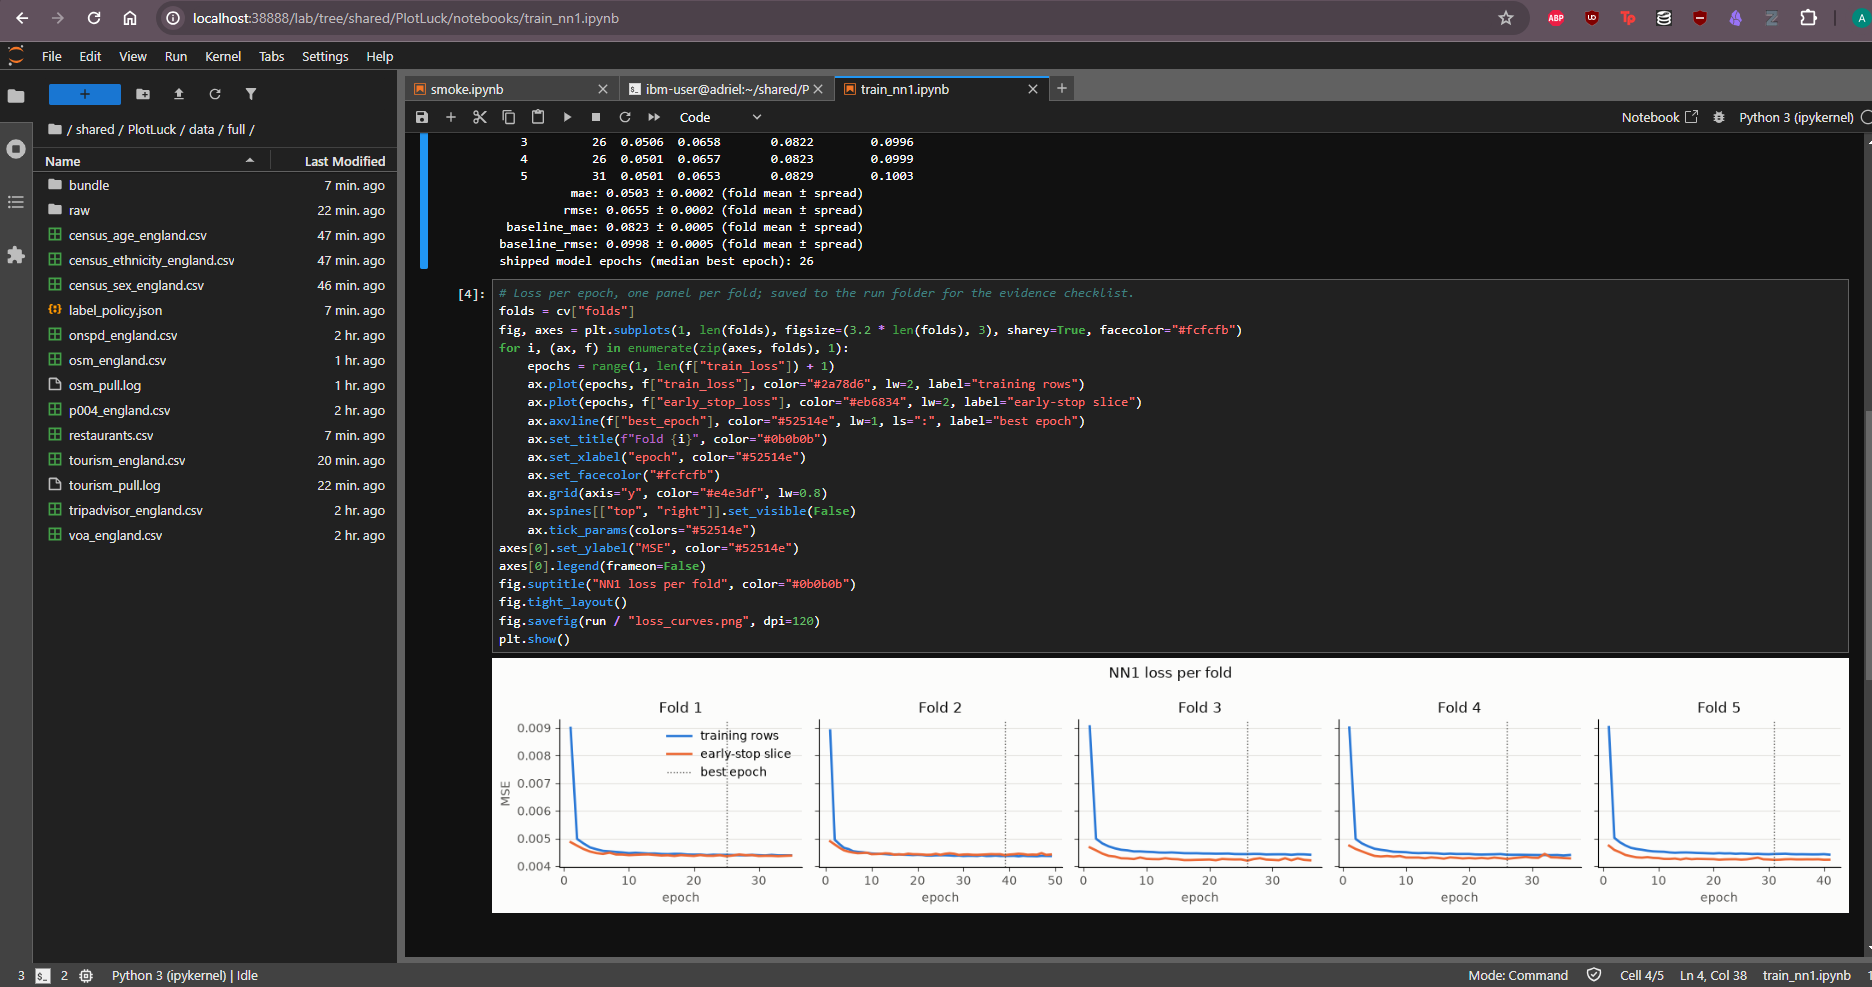
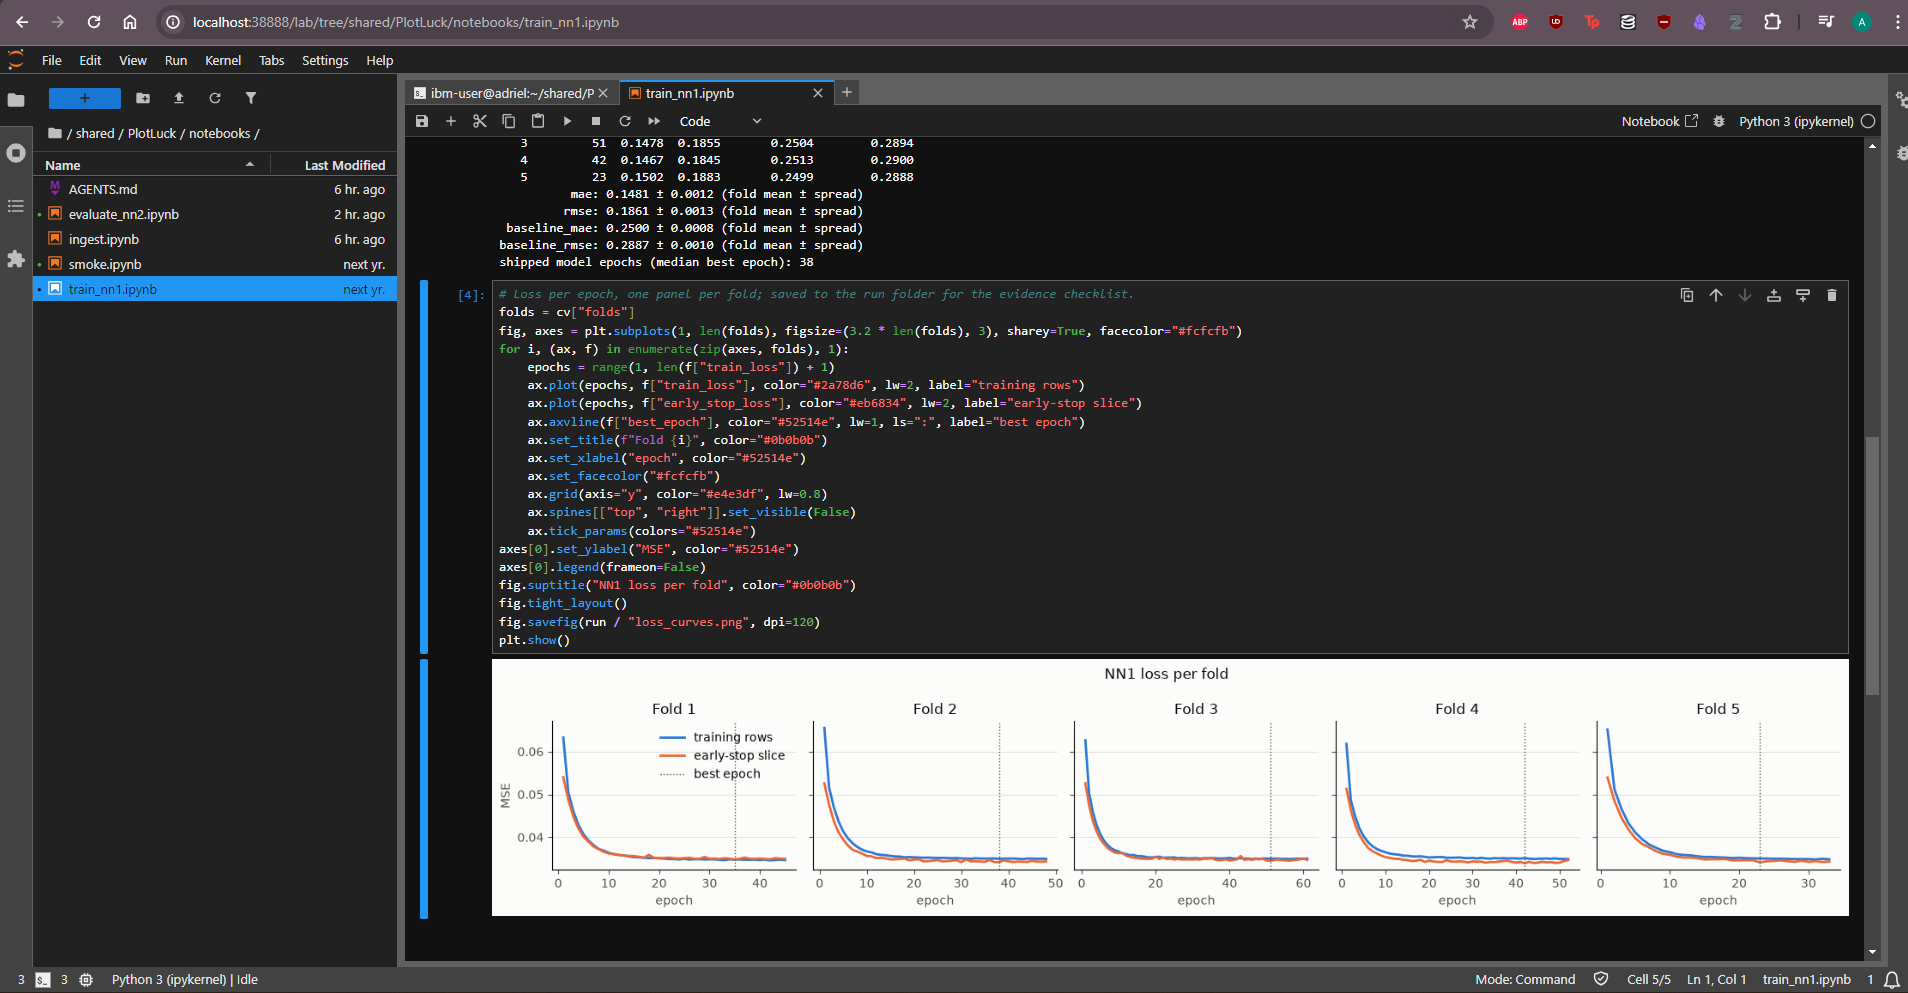
Record bundle v5 release audit, footer and evidence

diff --git a/web/index.html b/web/index.html
@@ -93,7 +93,7 @@
     </section>
   </div>
   <footer class="results-notes">
-    <p>A score from 0 to 1 compares expected review-based success. It is not a chance of survival or profit.</p>
+    <p>A score from 0 to 1 is the expected share of England's rated restaurants that this one would out-review: 0.3 means better than about 30%. It is not a chance of survival or profit.</p>
     <p>Closed restaurants may be missing from the source data, so treat the score as one input among several.</p>
     <p>Model trained on a 2021 Tripadvisor-derived dataset published on Kaggle (stefanoleone992). Not affiliated with or endorsed by Tripadvisor. Non-commercial use only. Data credits are below.</p>
   </footer>
@@ -106,7 +106,7 @@
   </section>
 </main>
 <footer>
-  <p>Scores come from a model trained on IBM LinuxONE on 17 October 2026 with 132,110 rated restaurants in England, Census 2021 demographics and OpenStreetMap tourism counts. On districts held out from training, its average error was 0.050 on the 0–1 score, against 0.082 for always predicting the average. The 101 districts with no Census match use typical demographic values. Scores estimate review-based success and do not establish suitability for a real location.</p>
+  <p>Scores come from a model trained on IBM LinuxONE on 18 October 2026 with 130,337 rated restaurants in England, Census 2021 demographics and OpenStreetMap tourism counts. On districts held out from training, its average error was 0.148 on the 0–1 score, against 0.250 for always predicting the average. The 101 districts with no Census match use typical demographic values. Scores estimate review-based success and do not establish suitability for a real location.</p>
   <p>Census context: Source: Office for National Statistics licensed under the Open Government Licence v.3.0. Tourism: © <a href="https://www.openstreetmap.org/copyright">OpenStreetMap contributors</a>, ODbL. Demographics are estimated for districts from Census areas; mapped tourism counts are not visitor counts.</p>
   <p>Contains OS data © Crown copyright and database right 2026. Contains Royal Mail data © Royal Mail copyright and database right 2026.</p>
   <p>Model trained on a 2021 Tripadvisor-derived dataset published on Kaggle (stefanoleone992). Not affiliated with or endorsed by Tripadvisor. Scores reflect review-based success among restaurants listed in 2021; closed restaurants may be missing. Non-commercial use only.</p>

diff --git a/docs/competition/PROGRESS.md b/docs/competition/PROGRESS.md
@@ -15,11 +15,11 @@ Where the build stands right now. Tasks live in [GitHub Issues](https://github.c
 | 0 | Repo, workflow and server setup | done | #3, #19 |
 | 1 | Data ingest: sources → one row per restaurant | done | #43, #42, #65, #68, #82, #101, #77 |
 | 2 | Labels: review-based success | done | #36, #47, #69 |
-| 3 | NN1 | in progress | #62, #65, #74, #101, #77, #150, #161, #163, #164, #165 (release gate passed with a commercial-core coverage gap); [ranking revamp](RANKING.md); bundle v5 ([ADR 0007](../adr/0007-percentile-label-detailed-ethnicity-and-footfall-constraints.md)) awaits a LinuxONE retrain |
+| 3 | NN1 | in progress | #62, #65, #74, #101, #77, #150, #161, #163, #164, #165 (release gate passed with a commercial-core coverage gap); [ranking revamp](RANKING.md); bundle v5 ([ADR 0007](../adr/0007-percentile-label-detailed-ethnicity-and-footfall-constraints.md)) retrained on LinuxONE and published ([audit](RANKING.md#release-audit-of-bundle-version-5)) |
 | 4 | NN2 free-text interpretation (required for competition) | in progress | [spec #110](https://github.com/AdrielAu/PlotLuck/issues/110); one description (#169); clear valid descriptions go directly to results, with targeted clarification only when needed; no routine review card; model/release gates remain open; [plan](../plans/nn2-integration.md) |
 | 5 | NN1 spatial-CV evaluation | in progress | #74, #77, #161; [ranking revamp](RANKING.md) |
 | 6 | Accelerated-inference benchmark on LinuxONE | not started | |
-| 7 | Weight export + x86 load check | in progress | #65, #67, #101, #77; bundle v3 pending full-data export |
+| 7 | Weight export + x86 load check | done | #65, #67, #101, #77; bundle v5 full-data export; x86 check is the `node` CI job scoring `web/models` against the s390x reference scores |
 | 8 | Site: district outlines, pickers, score threshold, ranked list | done | #67, #75, #76; redesign in [spec #127](https://github.com/AdrielAu/PlotLuck/issues/127): #128; outlines from the v4 full-data build (#176) |
 | 9 | Evidence screenshots (see [CHECKLIST.md](../evidence/CHECKLIST.md)) | in progress | |
 | 10 | Video | in progress | #192 |
@@ -27,7 +27,7 @@ Where the build stands right now. Tasks live in [GitHub Issues](https://github.c
 
 ## Now
 
-- **NN1 bundle v5 (ADR 0007)**: labels become percentiles, so they span 0–1. NN1 reads the 19 detailed Census ethnic groups plus a cuisine-matched community share. Population, restaurant count, attractions, hotels and the matched community can no longer lower a score. Code and the synthetic sample are done; the operator must re-extract `census_ethnicity`, retrain and audit (see [server.md](../server.md)). `web/models/` stays version 4 until then.
+- **NN1 bundle v5 (ADR 0007)**: labels become percentiles, so they span 0–1. NN1 reads the 19 detailed Census ethnic groups plus a cuisine-matched community share. Population, restaurant count, attractions, hotels and the matched community can no longer lower a score. Retrained on LinuxONE on 2026-10-18 and published in `web/models/`; see the [release audit](RANKING.md#release-audit-of-bundle-version-5).
 - **Food-to-cuisine interpretation (#197)**: product source grounding recognises a small reviewed set of food associations (including dimsum/dim sum to Chinese), preserves explicit cuisine qualifiers such as Thai curry, and asks for relevant supported cuisines for shared dishes such as kebab, curry and biryani. Choices pass through the worker to the existing cuisine question. Negated cues do not silently select a cuisine. This extends interpretation rather than retraining NN1 or establishing NN2 quality gates; the historical five-field proof stays strict.
 
 - **Latest NN2 interface amendment**: one description replaces the routine six-question flow and results pickers. All six inputs must be accounted for before scoring: area/range, cuisine, menu prices, rent, restaurant type and other requirements. An omitted or unresolved place requires a city choice or a clearer area description; England-wide scope must be explicit. Missing/defaulted or invalid inputs prompt Erica's original questions, including after failed inference; complete descriptions go directly to results. The product extends the focused candidate with literal requirements and per-field recovery; historical five-field proof results do not establish this path's quality. Download starts on submission with cancellation. All quality/release gates remain open.

diff --git a/docs/competition/RANKING.md b/docs/competition/RANKING.md
@@ -148,3 +148,39 @@ downloads have no workplace-population table, so footfall still comes from
 residents, restaurants and mapped tourism objects. The City districts above
 therefore stay omitted. Gate the full-data run as above, adding a check that
 low-population rural districts no longer dominate the top 20.
+
+## Release audit of bundle version 5
+
+The run is in [`runs/2026-10-18-train-nn1/`](../../runs/2026-10-18-train-nn1/):
+`metrics.json`, `ranking_audit.json` (against the live version 4 bundle) and
+`top20.txt` (default-trait top 20 for Indian, British and Chinese in both
+bundles).
+
+| Check | Live v4 | Candidate v5 |
+|---|---|---|
+| Districts scored | 2,076 | 2,076 (0 dropped, 0 added) |
+| Held-out MAE / RMSE | — | 0.148 / 0.186 (baseline 0.250 / 0.289; folds within ±0.0013) |
+| Distinct cuisine score vectors | — | 55 |
+| Median p10–p90 score spread | 0.0136 | 0.054 |
+| Rank correlation with live, per cuisine group (median / min) | — | 0.60 / 0.40 |
+| Top-20 overlap with live (median / min) | — | 3.5 / 0 |
+| Top-20 districts under 2,000 residents (Indian / British / Chinese) | 16 / 16 / 16 | 7 / 9 / 8 |
+
+MAE is on the percentile scale, so it is compared only with this run's own
+baseline. Representative districts, default Indian profile: W1D 779th →
+1,266th, LA22 184th → 160th, TR18 1,791st → 483rd; EC3M still omitted as a
+commercial core.
+
+**Gate: passed; publish the candidate.** The version 4 top 20 was led by
+districts with almost no residents (NE99 with 3, the Isles of Scilly with
+81–152, PE35 with 103). In version 5 the top 20 has real restaurant and hotel
+counts, and the matched community moves cuisines apart: S4, WV9 and B35 lead
+for Indian, WC1E appears for British.
+
+Known weaknesses: coastal and holiday towns (Northumberland coast, Isle of
+Wight, Cornwall and Devon) dominate, and city centres stay low (W1D fell),
+because residents, restaurants and mapped tourism objects are the only
+footfall inputs. B35 tops Indian with 8 restaurants, and PL33 and LA17 reach
+the British top 20 with 1–2. Default-trait scores now top out near 0.3, against
+0.7 in version 4, because a score is a percentile; restaurant traits move a
+score by up to about 0.14, more than district differences do.
